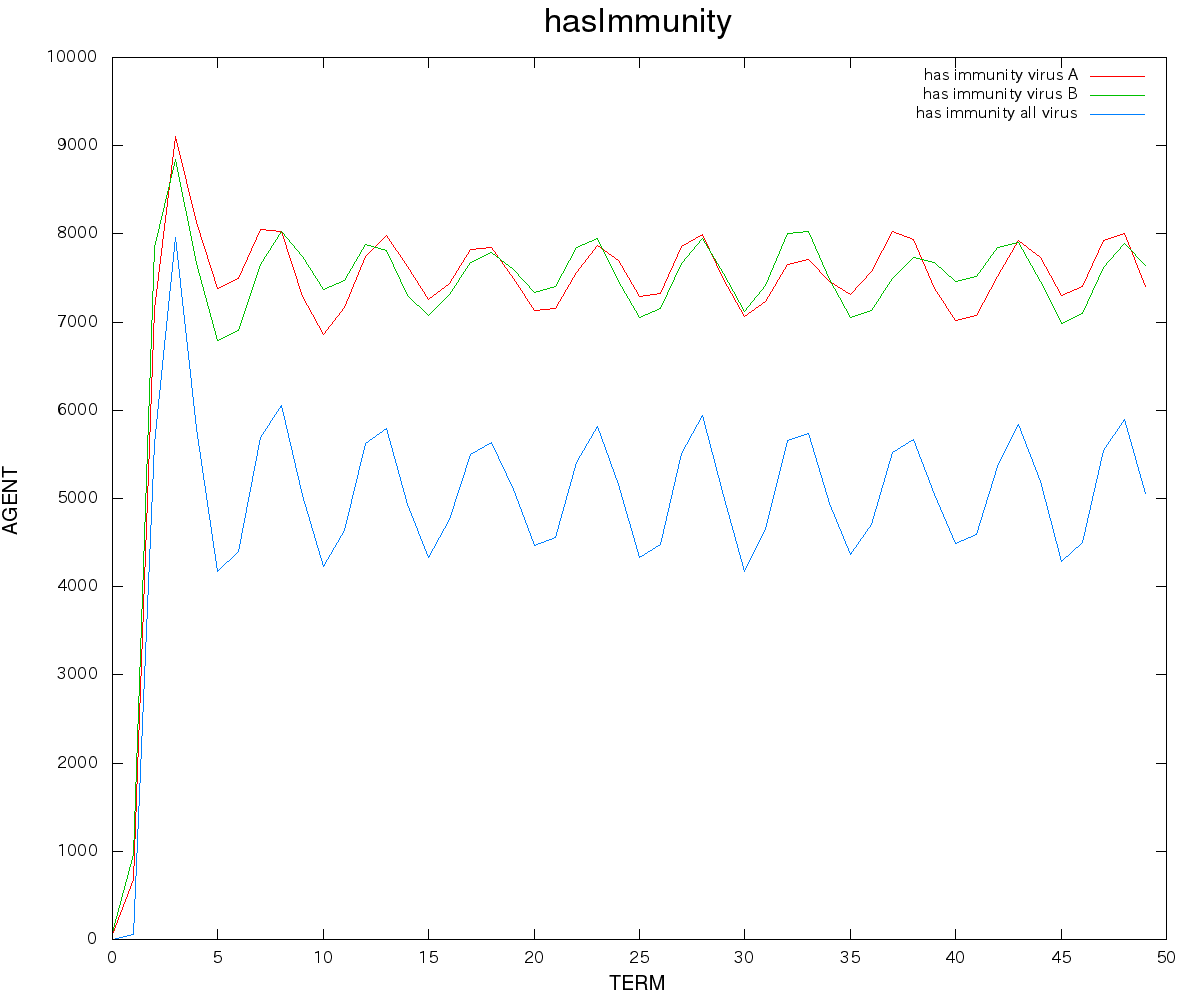
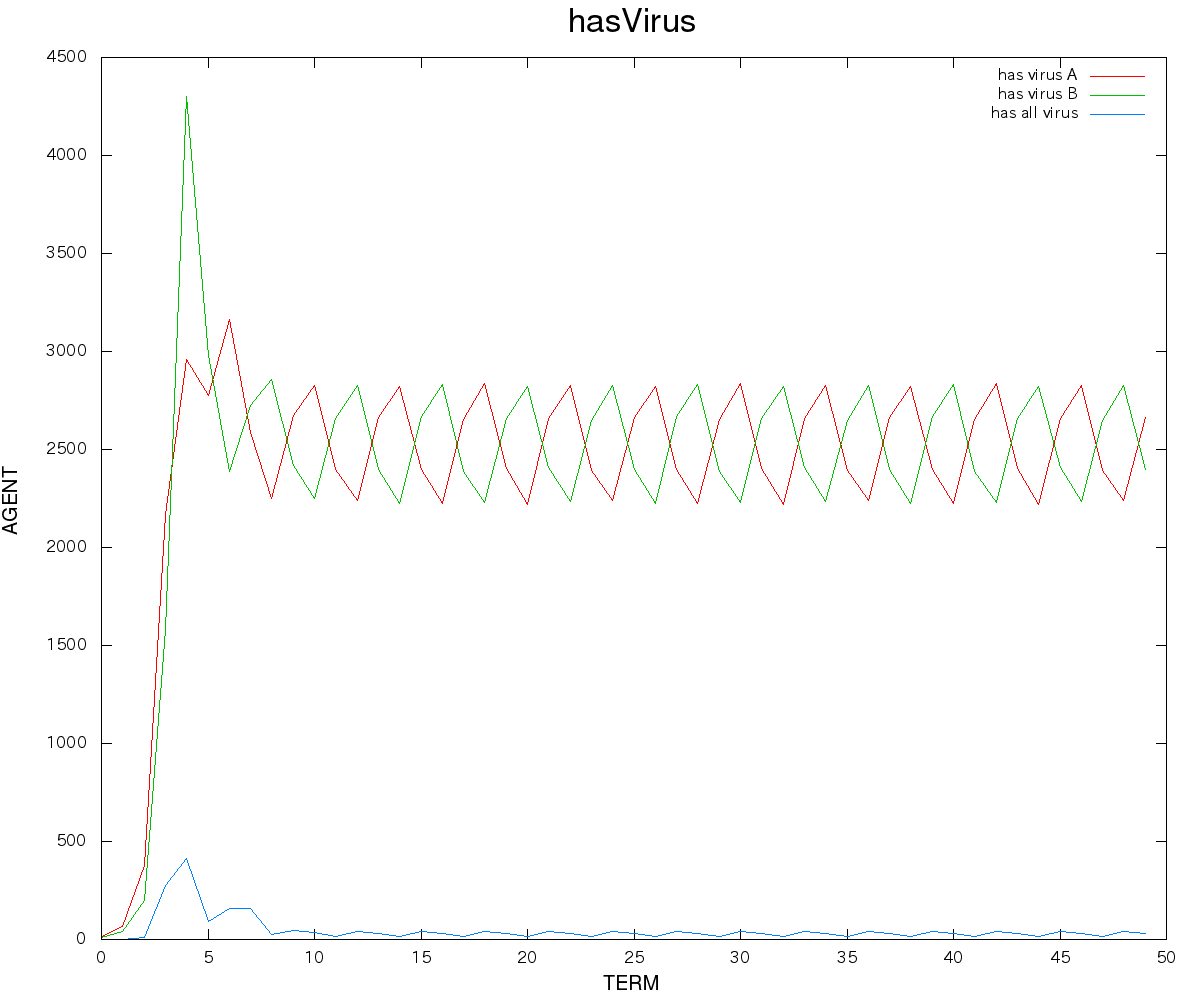
規則正しく振動しすぎている。何かおかしい。

diff --git a/main.cpp b/main.cpp
@@ -33,27 +33,25 @@ int main()
     Agent agent[ NUM_A ];                       /* エージェントは複数  */
 
     Virus virus[ NUM_V ] = {                    /* ウイルス生成  */
-        /* 123456789012345 */
-        "110111011",
-        "100011100"
+      /* 123456789012345 */
+        "11011",
+        "10001"
     };
 
     Landscape *landscape = new Landscape;       /* ランドスケープ初期化 */
 
     Administrator AD( agent, virus, landscape ); /* 管理者に登録 */
 
-    int infected_all = 0;                         /* 免疫獲得者カウンタ  */
+    int infected_all = 0;                       /* 免疫獲得者カウンタ  */
 
-    ofstream ofs("A_hasImmunity.dat");          /* 出力ファイル  */
+    ofstream ofs("A_hasVirus.dat");             /* 出力ファイル  */
     ofstream ofs_log("A_log.dat");              /* 出力ファイル  */
 
     // Log 
     virus[0].printTag();
     virus[1].printTag();
-    agent[0].printTag();
-    agent[1].printTag();
 
-    for(int i=0; i<10; i++) {
+    for(int i=0; i<10; i++) {                   /* 感染させる */
         agent[ i ].infection( virus[0] );
     }
     for(int i=10; i<20; i++) {
@@ -74,7 +72,7 @@ int main()
         AD.responseAgent();                     /* 免疫応答（タグフリップ） */
 
         // CALCULATE 
-        infected_all = 0;                         /* 全ウイルスへの免疫獲得者数 */
+        infected_all = 0;                       /* 全ウイルスへの免疫獲得者数 */
         FOR( j, NUM_A )                         /* 免疫獲得者を計算  */
         {
             if( agent[j].isInfected( virus[0] ) &&
@@ -85,19 +83,7 @@ int main()
         ofs << i << SEPARATOR                   /* ファイルに出力  */
             << AD.numIsInfected( virus[0] ) << SEPARATOR            /* 免疫獲得者数  */
             << AD.numIsInfected( virus[1] ) << SEPARATOR            /* 免疫獲得者数  */
-            << infected_all << endl;              /* 全免疫獲得者数  */
+            << infected_all << endl;            /* 全免疫獲得者数  */
     }
-
-    // --------------- 
-    // log 
-    FOR(i, NUM_A) {
-        FOR(j, agent[0].len_) ofs_log<<agent[i].tag_[j];
-        ofs_log<<" "<<agent[i].numHoldingVirus();
-        ofs_log<<" "<<agent[i].hasImmunity(virus[0]);
-        ofs_log<<" "<<agent[i].hasImmunity(virus[1]);
-        ofs_log<<endl;
-    }
-    // --------------- 
-
     return 0;
 }
